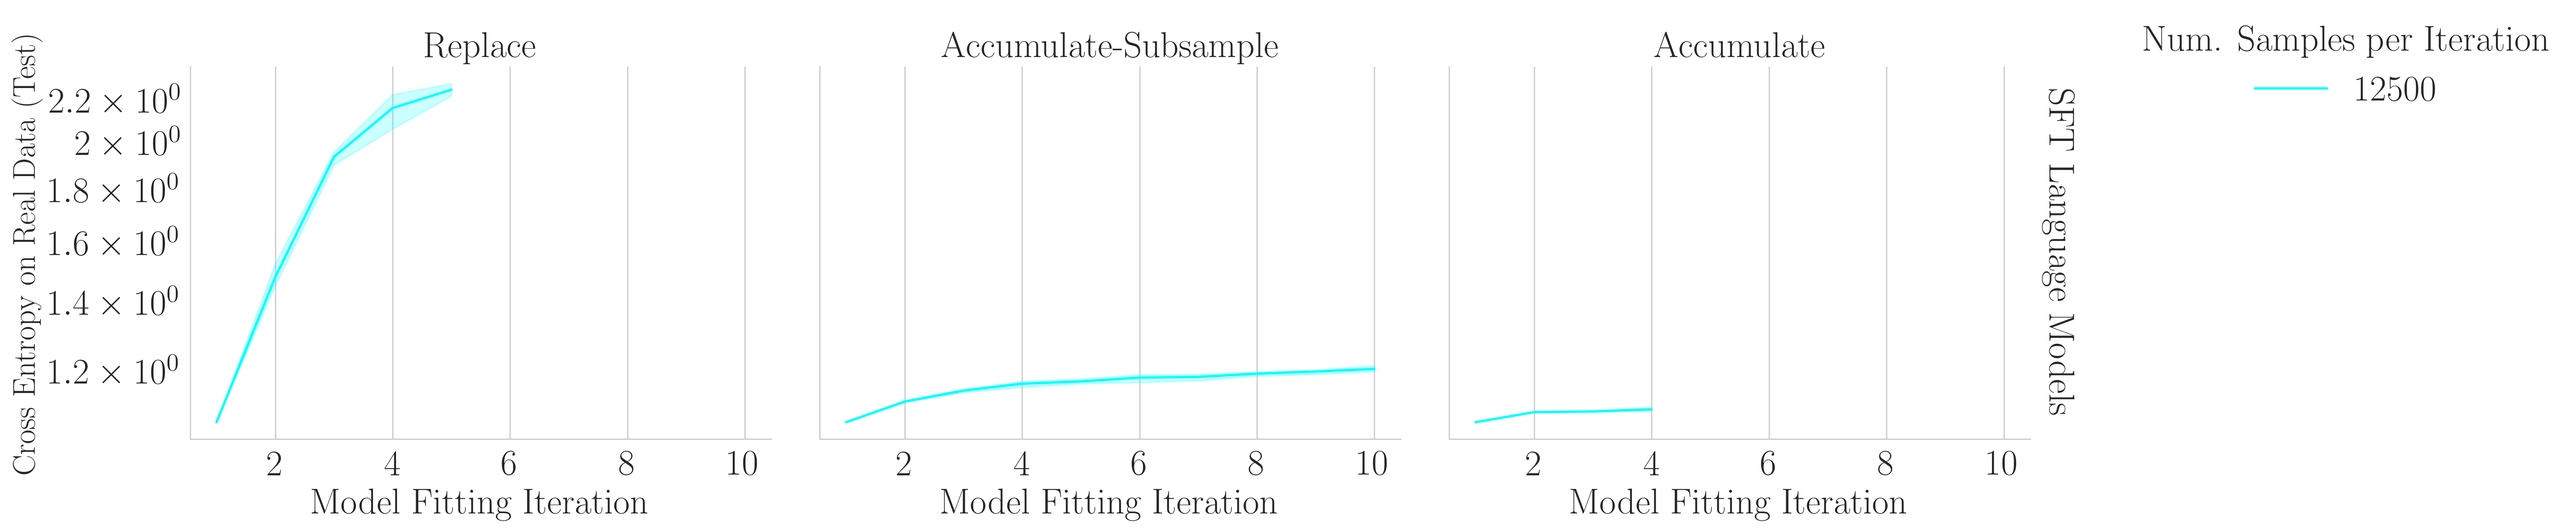
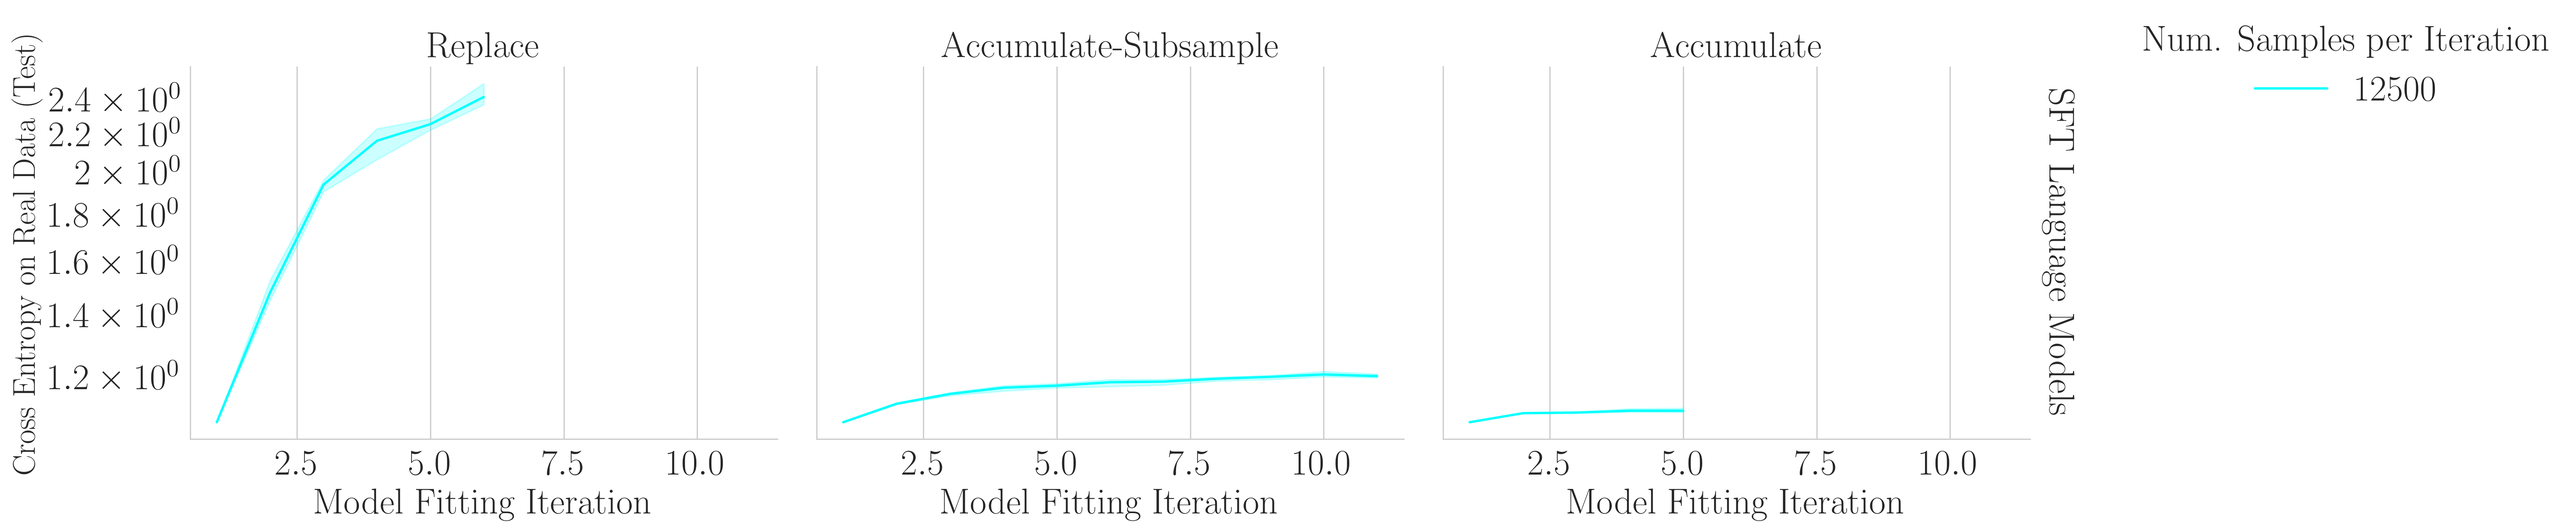
Polishing sweeps

diff --git a/notebooks/08_sft_lm_accumulate_subsample/08_sft_lm_accumulate_subsample.py b/notebooks/08_sft_lm_accumulate_subsample/08_sft_lm_accumulate_subsample.py
@@ -23,6 +23,7 @@ wandb_sweep_ids = [
     "p7hjia80",  # HelpSteer2   Gemma2-2B   Paradigm=Accumulate             Iteration3
     "akm93fto",  # HelpSteer2   Gemma2-2B   Paradigm=Accumulate             Iteration4
     "v8kta96l",  # HelpSteer2   Gemma2-2B   Paradigm=Accumulate             Iteration5
+    "bygiyqhg",  # HelpSteer2   Gemma2-2B   Paradigm=Accumulate             Iteration6
     "y4oue58c",  # HelpSteer2   Gemma2-2B   Paradigm=Accumulate-Subsample   Iteration1 (Part 1)
     "3cn97hta",  # HelpSteer2   Gemma2-2B   Paradigm=Accumulate-Subsample   Iteration1 (Part 2)
     "4ec1abqn",  # HelpSteer2   Gemma2-2B   Paradigm=Accumulate-Subsample   Iteration2
@@ -35,6 +36,7 @@ wandb_sweep_ids = [
     "qfznvxk6",  # HelpSteer2   Gemma2-2B   Paradigm=Accumulate-Subsample   Iteration9
     "legapmou",  # HelpSteer2   Gemma2-2B   Paradigm=Accumulate-Subsample   Iteration10
     "hlnaub14",  # HelpSteer2   Gemma2-2B   Paradigm=Accumulate-Subsample   Iteration11
+    "usroz9lf",  # HelpSteer2   Gemma2-2B   Paradigm=Accumulate-Subsample   Iteration12
     "n2ren5e9",  # HelpSteer2   Gemma2-2B   Paradigm=Replace                Iteration1
     "5i6bj5re",  # HelpSteer2   Gemma2-2B   Paradigm=Replace                Iteration2
     "n8t9j5ee",  # HelpSteer2   Gemma2-2B   Paradigm=Replace                Iteration3
